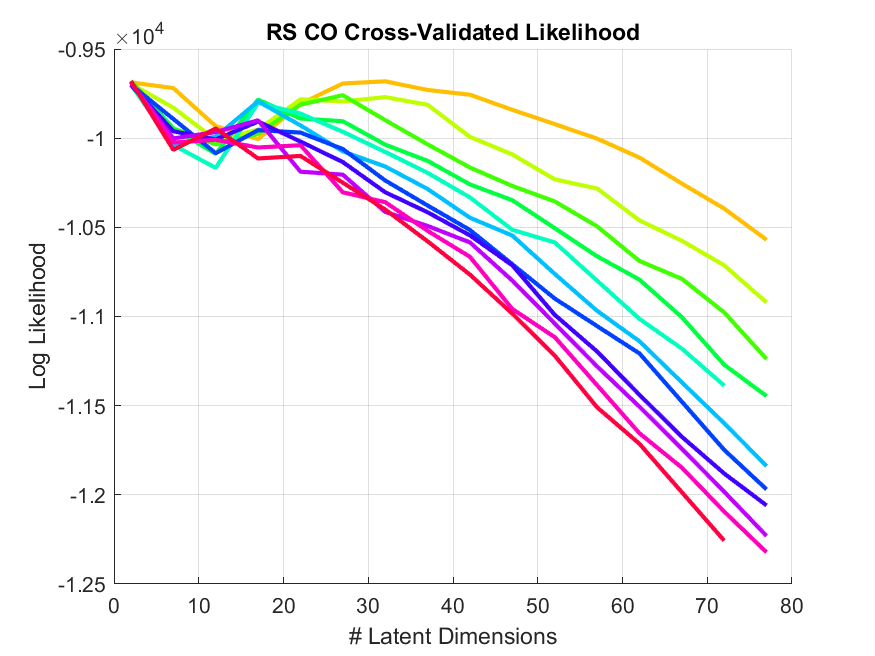
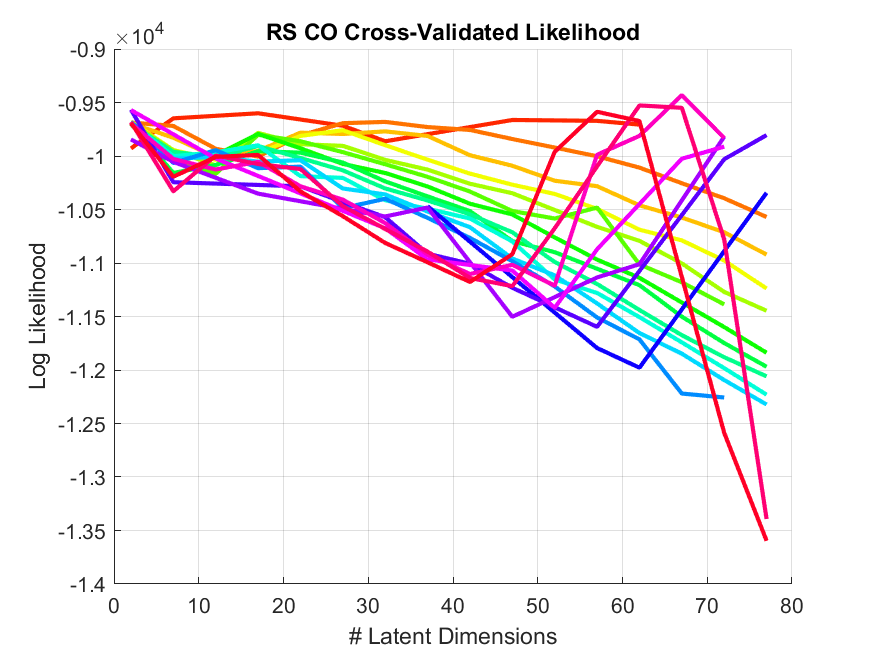
adjust iters and add training figs to cosmoothing functions

diff --git a/code/python_switching_models/rslds_cosmoothing.py b/code/python_switching_models/rslds_cosmoothing.py
@@ -7,6 +7,8 @@ Created on Mon May  9 14:07:15 2022.
 import ssm
 import numpy as np
 import logging
+import matplotlib.pyplot as plt
+
 logger = logging.getLogger(__name__)
 
 
@@ -42,7 +44,7 @@ def run_cosmoothing(model, ys, neuron_classification, inputs=None, cs_frac=0.8):
             ys, inputs=inputs, masks=masks,
             method="laplace_em",
             variational_posterior="structured_meanfield",
-            num_iters=25, alpha=0.5)
+            num_iters=50, alpha=0.5)
 
         # compute log likelihood of heldout neurons
 
@@ -90,7 +92,7 @@ def rslds_cosmoothing(data, trial_classification, meta, bin_size,
     model.initialize(trainset)
     q_elbos_lem_train, q_lem_train = model.fit(trainset, method="laplace_em",
                                                variational_posterior="structured_meanfield",
-                                               initialize=False, num_iters=100)
+                                               initialize=False, num_iters=50)
     # %%
     ys = testset
 
@@ -98,5 +100,12 @@ def rslds_cosmoothing(data, trial_classification, meta, bin_size,
     lls = run_cosmoothing(model, ys, neuron_classification, inputs=None, cs_frac=0.8)
     log_likelihood_emissions_sum = lls
     # %% Generating Rates for Test Trials
+    plt.figure()
+    plt.plot(q_elbos_lem_train[1:], label="Laplace-EM")
+    plt.legend()
+    plt.xlabel("Iteration")
+    plt.ylabel("ELBO")
+    plt.tight_layout()
+    plt.savefig(figurepath + "/training.png")
 
     return log_likelihood_emissions_sum

diff --git a/code/python_switching_models/ll_csv_to_plot.m b/code/python_switching_models/ll_csv_to_plot.m
@@ -46,7 +46,7 @@ for iFolder = 1:length(ll_files_list)
         % put data in correct x,y,and x positions based on state, dim, and
         % folds in this given file and path.
 %         disp(length(temp(:,1)))
-        if length(temp(:,1)) == 5
+        if length(temp(:,1)) >= 3
             bits_per_spike(temp_bits_dim_num,temp_bits_state_num) = mean(temp(:,1));
         end
     end
